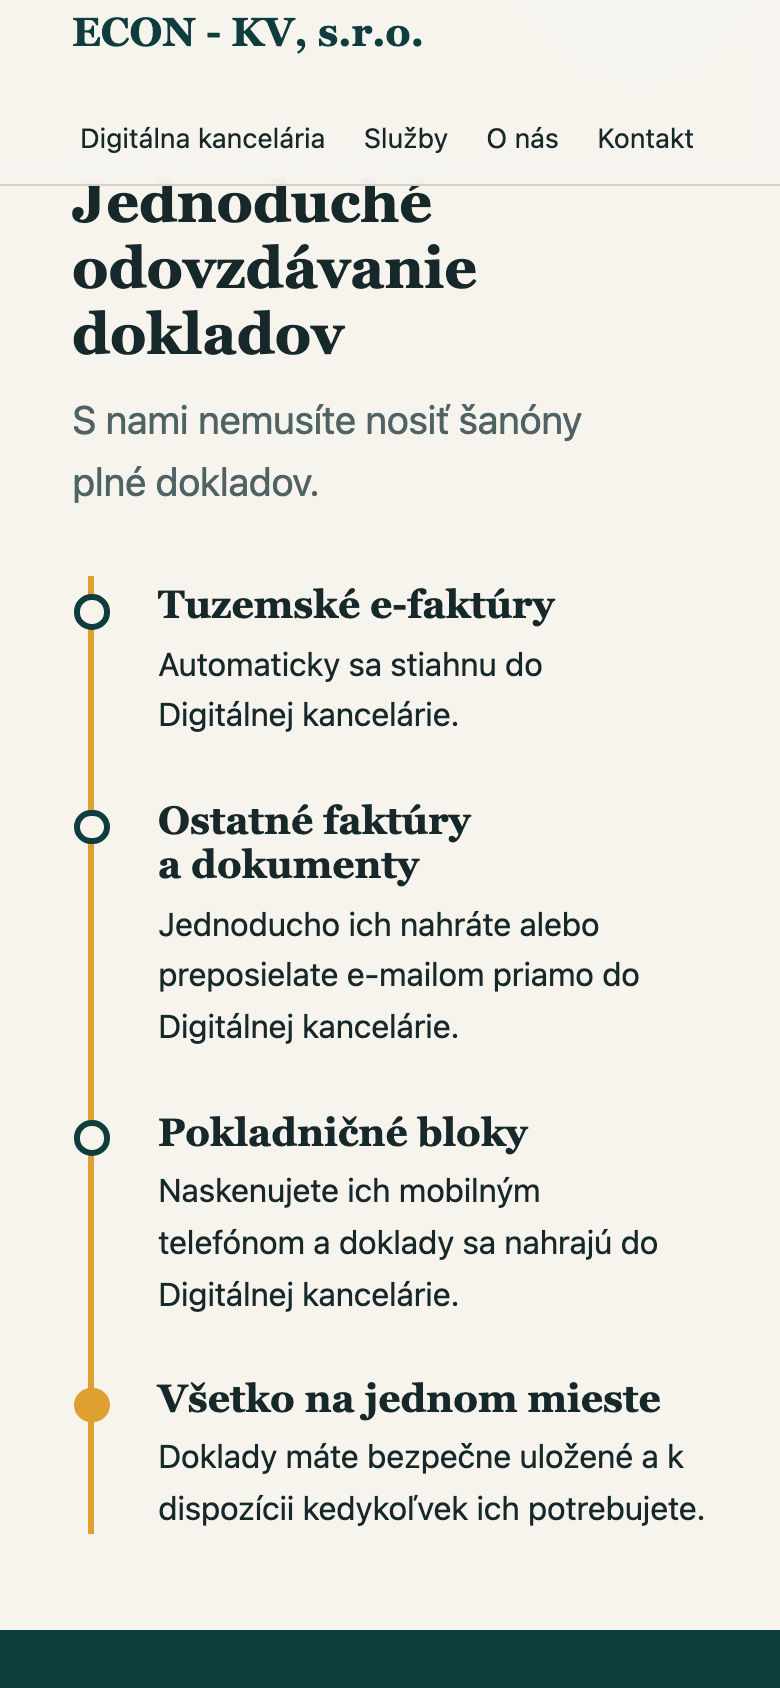
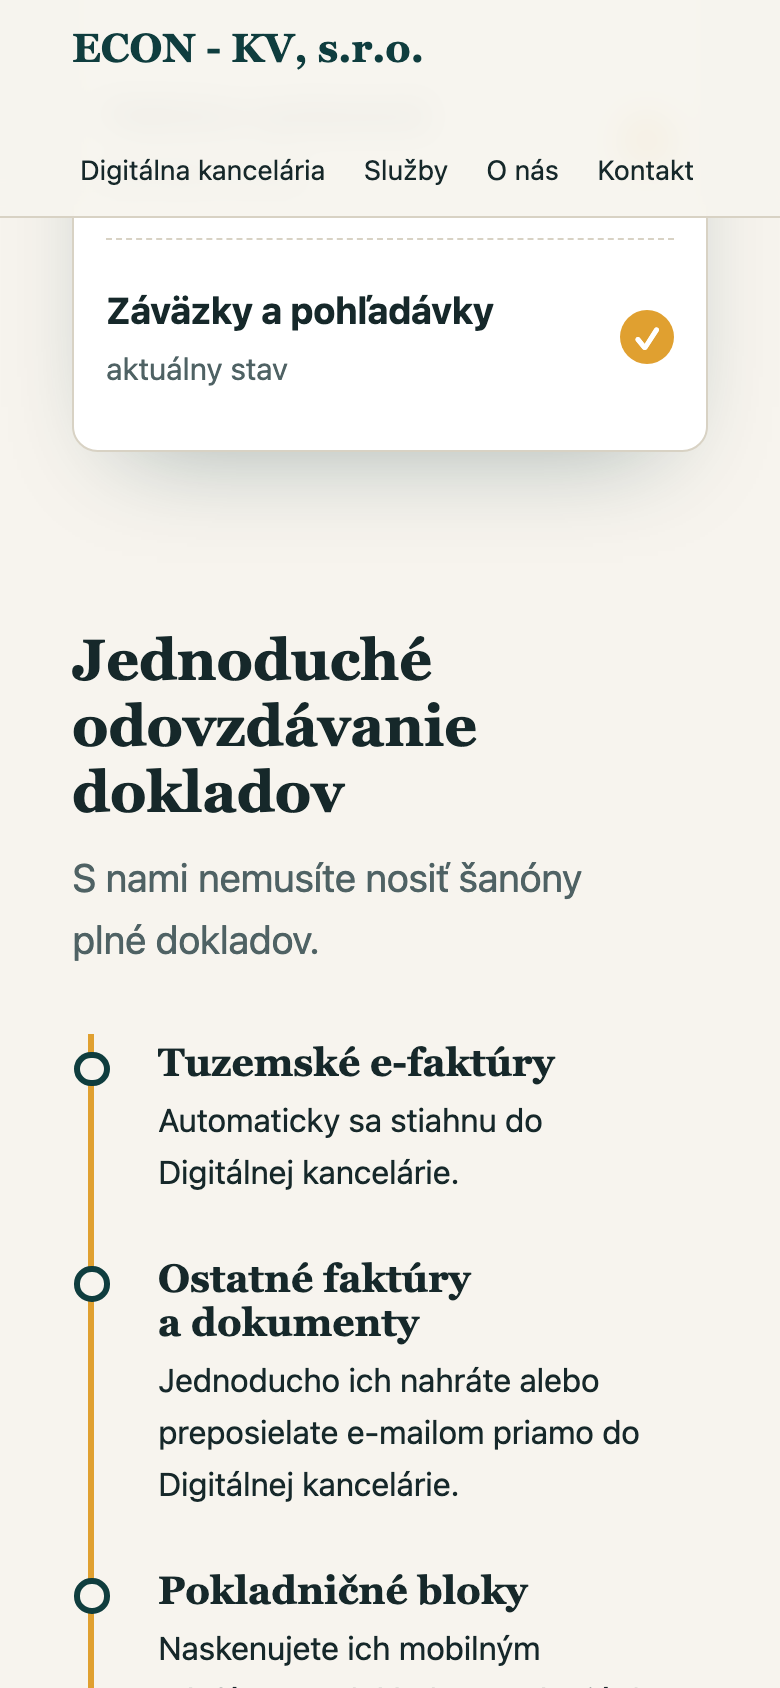
Aktualizace webu 2026-11-26 14:45

diff --git a/static/css/style.css b/static/css/style.css
@@ -128,3 +128,12 @@ a{color:var(--accent)}
 @media(max-width:800px){.sluzby-zoznam li{grid-template-columns:1fr}}
 .logo{display:inline-block;padding:.5rem 0}
 @media(max-width:800px){.hero-grid{grid-template-columns:1fr}}
+.okno{position:relative;margin-bottom:2.5rem}
+.uctenka{position:absolute;right:-.5rem;bottom:-2.2rem;width:10.5rem;background:#fff;border:1px solid var(--line);padding:.9rem .9rem 1rem;transform:rotate(3deg);box-shadow:0 14px 30px -14px rgba(15,61,62,.5);font-size:.8rem;display:grid;gap:.35rem;
+ clip-path:polygon(0 0,100% 0,100% 94%,92% 100%,84% 94%,76% 100%,68% 94%,60% 100%,52% 94%,44% 100%,36% 94%,28% 100%,20% 94%,12% 100%,4% 94%,0 100%)}
+.uctenka span{color:var(--muted)}.uctenka i{display:block;height:.35rem;background:var(--line);border-radius:2px}.uctenka i:nth-of-type(2){width:70%}.uctenka strong{color:var(--accent)}
+@media(min-width:1024px){
+.tok{display:grid;grid-template-columns:repeat(4,1fr);border-left:0;border-top:3px solid var(--amber);margin-left:0!important;gap:0 1.5rem}
+.tok li{padding:2rem 0 0;max-width:none}.tok li::before{left:0;top:-.7rem}}
+.vyhody{grid-template-columns:repeat(5,1fr)}
+@media(max-width:1023px){.vyhody{grid-template-columns:repeat(auto-fit,minmax(16rem,1fr))}}

diff --git a/src/index.html b/src/index.html
@@ -18,6 +18,7 @@
         <li><b>Faktúra vystavená</b><span>prehľad úhrad</span><em class="ok">✓</em></li>
         <li><b>Záväzky a pohľadávky</b><span>aktuálny stav</span><em class="ok">✓</em></li>
       </ul>
+      <div class="uctenka"><b>Pokladničný blok</b><span>naskenované mobilom</span><i></i><i></i><i></i><strong>nahrané ✓</strong></div>
     </div>
   </div>
 </section>
